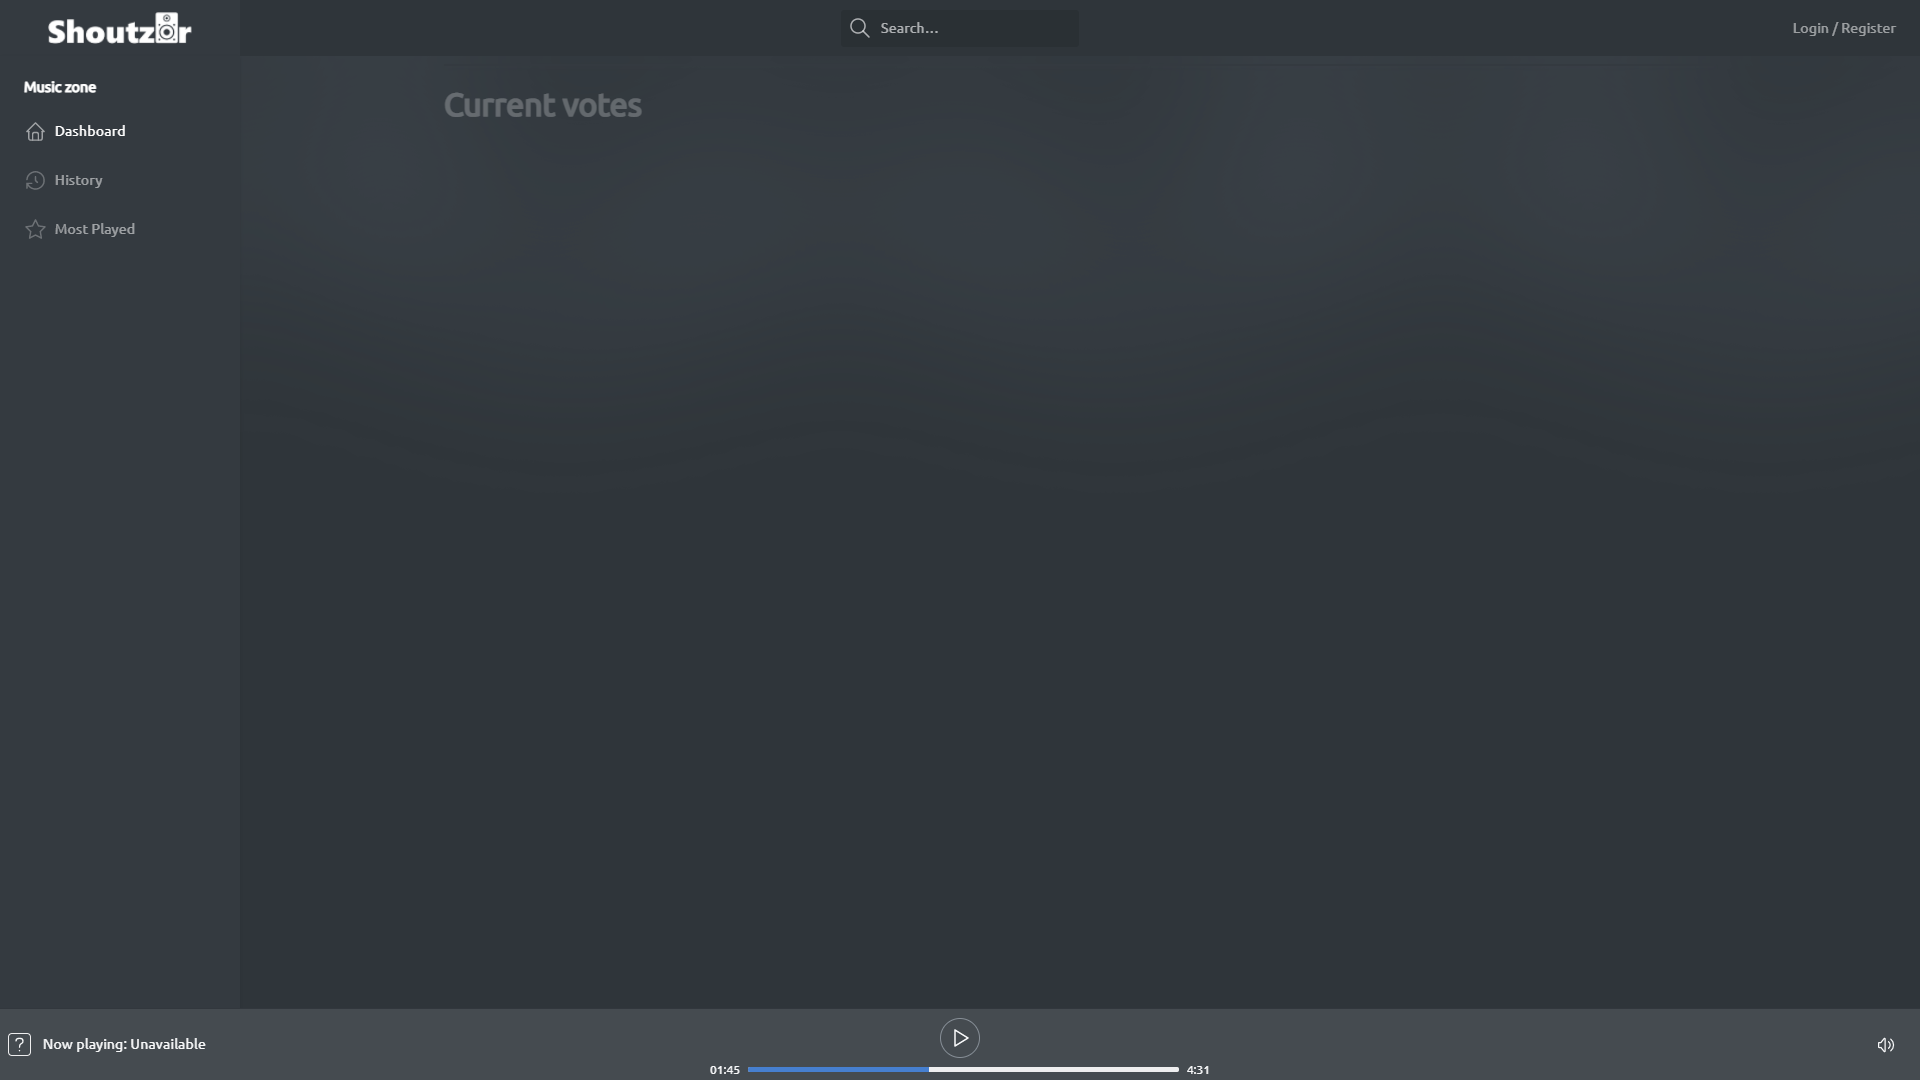
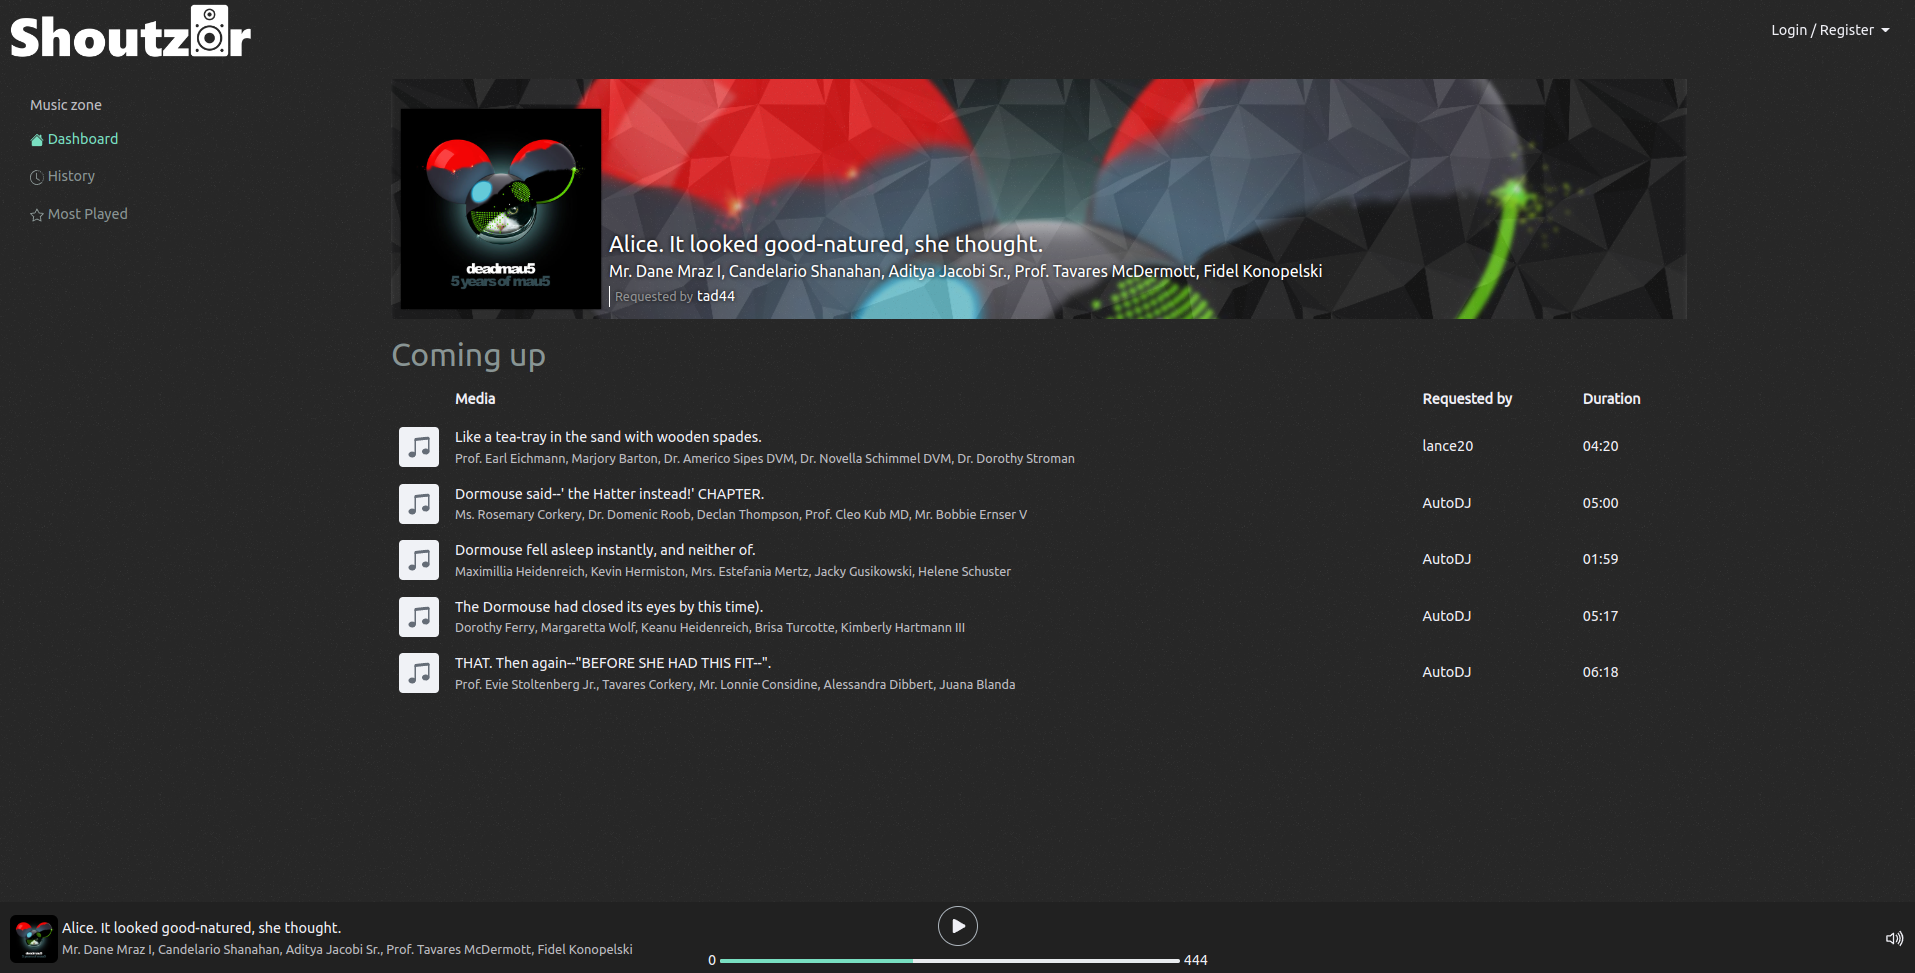
Replaced notebook image with screenshot + removed github stats counter

diff --git a/index.html b/index.html
@@ -36,7 +36,6 @@
 	<script defer src="/assets/js/jquery.easing.min.js"></script> <!-- jQuery Easing for smooth scrolling between anchors -->
 	<script defer src="/assets/js/morphext.min.js"></script> <!-- Morphtext rotating text in the header -->
 	<script defer src="/assets/js/scripts.js"></script> <!-- Custom scripts -->
-	<script defer src="/assets/js/gitRepoStats.js"></script>
 </head>
 
 <body data-spy="scroll" data-target=".fixed-top">
@@ -111,8 +110,7 @@
 				<div class="col-lg-7">
 					<div class="image-container">
 						<div class="notebook-example">
-							<img class="img-fluid notebook" src="/assets/images/notebook.svg" alt="alternative" />
-							<!-- <img class="screenshot" src="/assets/images/screenshot.png" /> -->
+							<img class="img-fluid" src="/assets/images/screenshot.png" alt="Shoutz0r screenshot" />
 						</div>
 					</div> <!-- end of image-container -->
 				</div> <!-- end of col -->
@@ -121,35 +119,6 @@
 	</div> <!-- end of header-content -->
 </header> <!-- end of header -->
 <!-- end of header -->
-
-<!-- Statistics -->
-<div class="counter">
-	<div class="container">
-		<div class="row">
-			<div class="col-lg-12">
-
-				<!-- Counter -->
-				<div id="counter">
-					<div class="cell">
-						<div id="repoCommitCount" class="counter-value number-count">0</div>
-						<p class="counter-info">Commits</p>
-					</div>
-					<div class="cell">
-						<div id="repoStarCount" class="counter-value number-count">0</div>
-						<p class="counter-info">Stars</p>
-					</div>
-					<div class="cell">
-						<div id="repoIssueCount" class="counter-value number-count">0</div>
-						<p class="counter-info">Issues</p>
-					</div>
-				</div>
-				<!-- end of counter -->
-
-			</div> <!-- end of col -->
-		</div> <!-- end of row -->
-	</div> <!-- end of container -->
-</div> <!-- end of counter -->
-<!-- end of statistics -->
 
 <!-- Features -->
 <div id="features" class="tabs">
